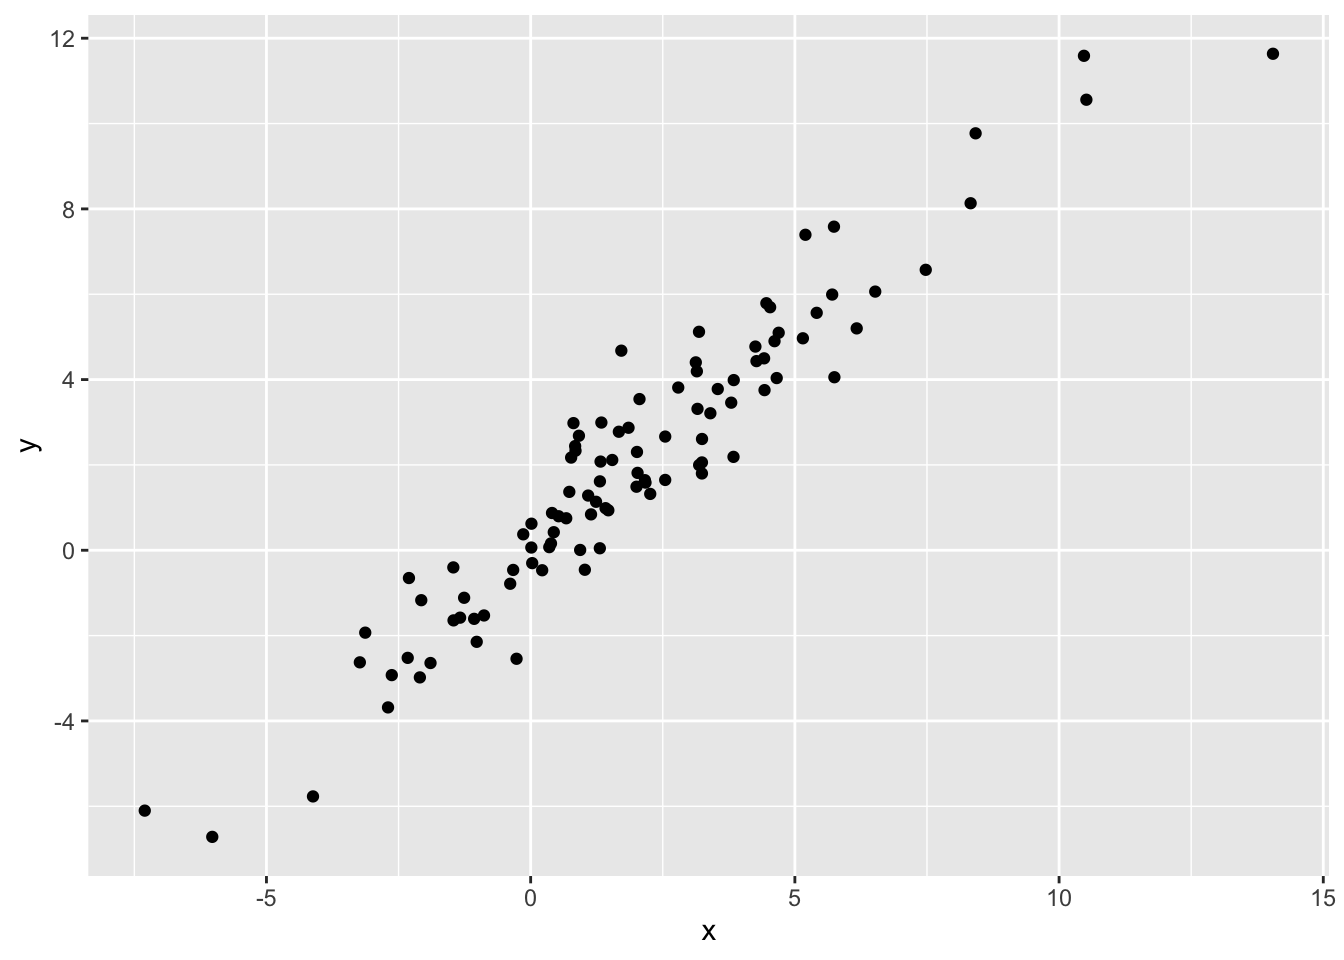
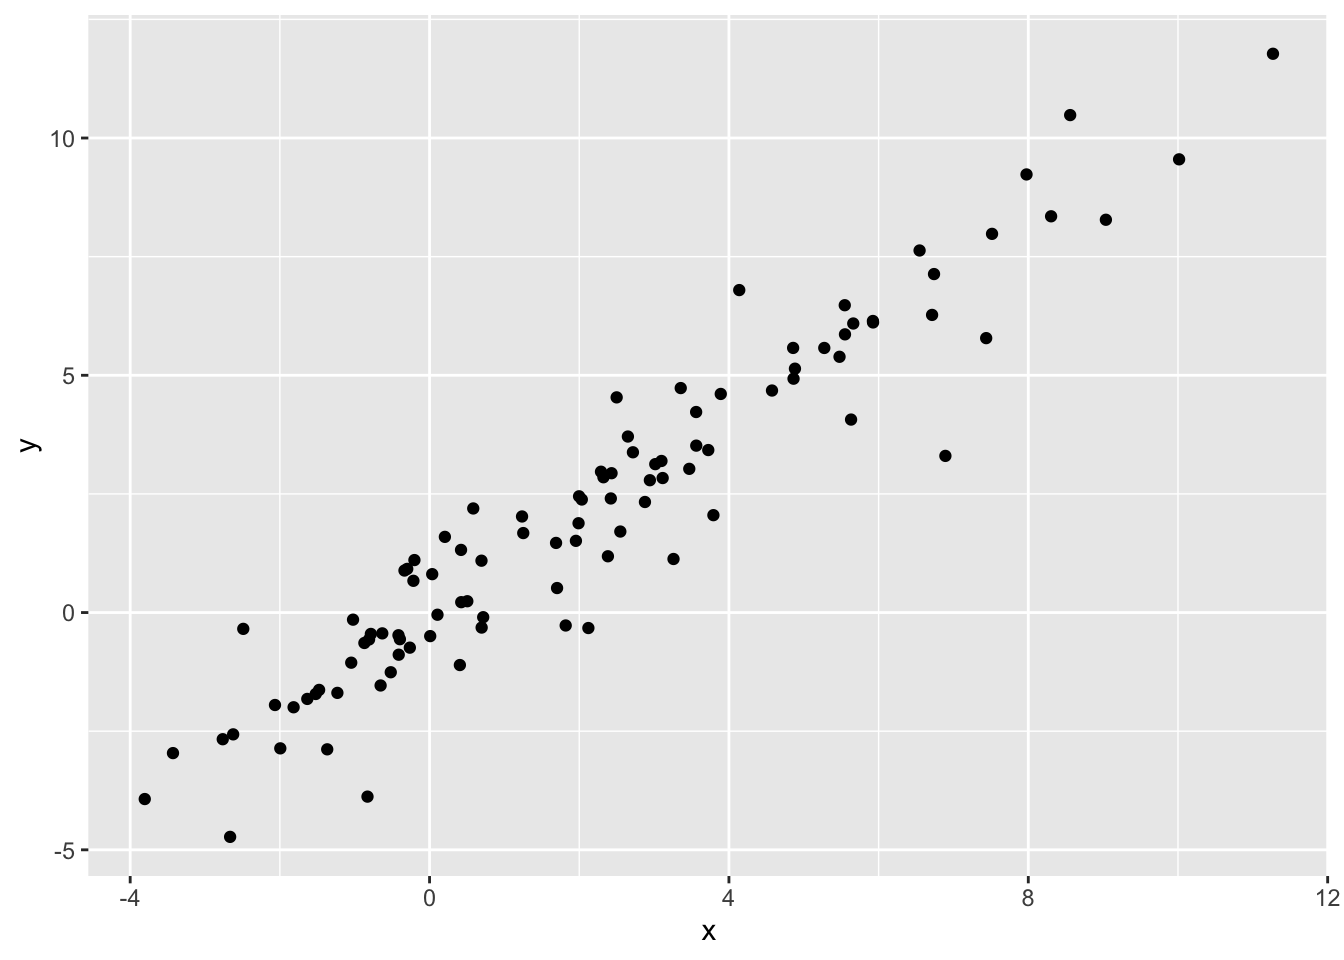
update theme

diff --git a/plots.html b/plots.html
@@ -16,7 +16,7 @@
 <script src="site_libs/header-attrs-2.31/header-attrs.js"></script>
 <script src="site_libs/jquery-3.6.0/jquery-3.6.0.min.js"></script>
 <meta name="viewport" content="width=device-width, initial-scale=1" />
-<link href="site_libs/bootstrap-3.3.5/css/cerulean.min.css" rel="stylesheet" />
+<link href="site_libs/bootstrap-3.3.5/css/flatly.min.css" rel="stylesheet" />
 <script src="site_libs/bootstrap-3.3.5/js/bootstrap.min.js"></script>
 <script src="site_libs/bootstrap-3.3.5/shim/html5shiv.min.js"></script>
 <script src="site_libs/bootstrap-3.3.5/shim/respond.min.js"></script>
@@ -359,13 +359,13 @@ div.tocify {
 <h1>Here are some cool plots</h1>
 <p>Here’s a scatterplot</p>
 <pre class="r"><code>library(tidyverse)</code></pre>
-<pre><code>## ── Attaching core tidyverse packages ──────────────────
+<pre><code>## ── Attaching core tidyverse packages ──────────────────── tidyverse 2.0.0 ──
 ## ✔ dplyr     1.2.1     ✔ readr     2.2.0
 ## ✔ forcats   1.0.1     ✔ stringr   1.6.0
 ## ✔ ggplot2   4.0.3     ✔ tibble    3.3.1
 ## ✔ lubridate 1.9.5     ✔ tidyr     1.3.2
 ## ✔ purrr     1.2.2     
-## ── Conflicts ───────────────── tidyverse_conflicts() ──
+## ── Conflicts ────────────────────────────────────── tidyverse_conflicts() ──
 ## ✖ dplyr::filter() masks stats::filter()
 ## ✖ dplyr::lag()    masks stats::lag()
 ## ℹ Use the conflicted package (&lt;http://conflicted.r-lib.org/&gt;) to force all conflicts to become errors</code></pre>

diff --git a/about.html b/about.html
@@ -16,7 +16,7 @@
 <script src="site_libs/header-attrs-2.31/header-attrs.js"></script>
 <script src="site_libs/jquery-3.6.0/jquery-3.6.0.min.js"></script>
 <meta name="viewport" content="width=device-width, initial-scale=1" />
-<link href="site_libs/bootstrap-3.3.5/css/cerulean.min.css" rel="stylesheet" />
+<link href="site_libs/bootstrap-3.3.5/css/flatly.min.css" rel="stylesheet" />
 <script src="site_libs/bootstrap-3.3.5/js/bootstrap.min.js"></script>
 <script src="site_libs/bootstrap-3.3.5/shim/html5shiv.min.js"></script>
 <script src="site_libs/bootstrap-3.3.5/shim/respond.min.js"></script>

diff --git a/index.html b/index.html
@@ -16,7 +16,7 @@
 <script src="site_libs/header-attrs-2.31/header-attrs.js"></script>
 <script src="site_libs/jquery-3.6.0/jquery-3.6.0.min.js"></script>
 <meta name="viewport" content="width=device-width, initial-scale=1" />
-<link href="site_libs/bootstrap-3.3.5/css/cerulean.min.css" rel="stylesheet" />
+<link href="site_libs/bootstrap-3.3.5/css/flatly.min.css" rel="stylesheet" />
 <script src="site_libs/bootstrap-3.3.5/js/bootstrap.min.js"></script>
 <script src="site_libs/bootstrap-3.3.5/shim/html5shiv.min.js"></script>
 <script src="site_libs/bootstrap-3.3.5/shim/respond.min.js"></script>
